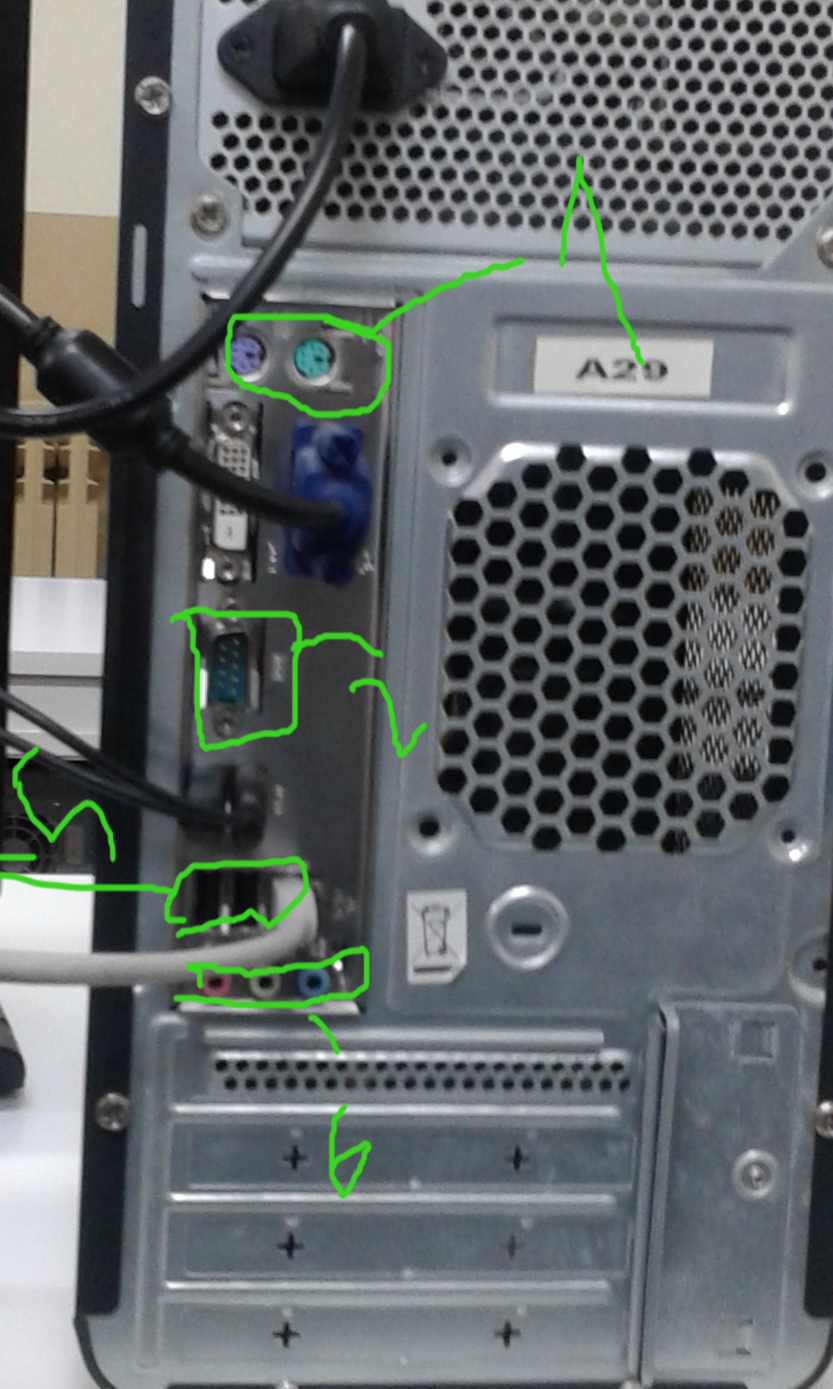
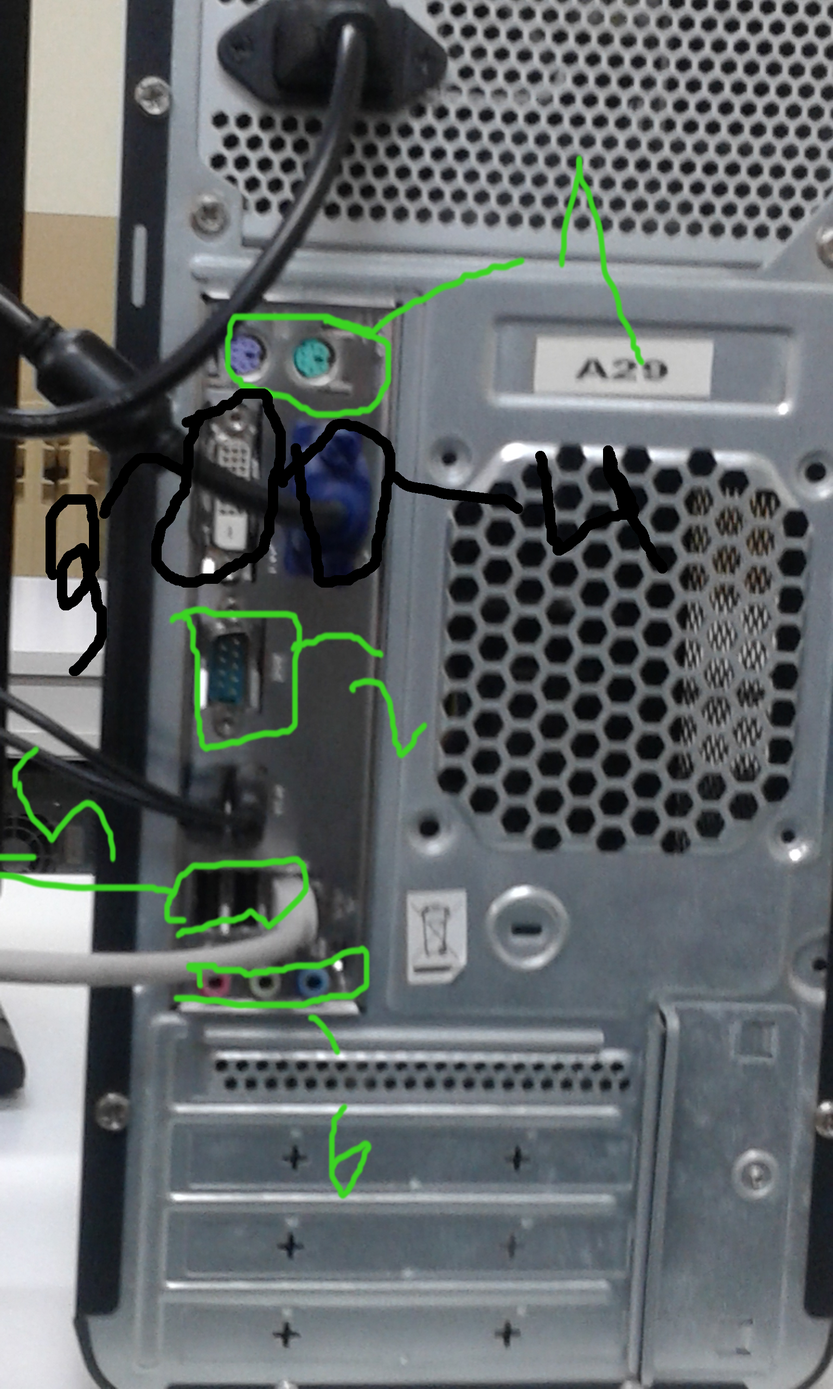
totalment acabat

Changed region(s): [[0.1562, 0.2812, 0.7188, 0.4375], [0.0312, 0.3438, 0.1562, 0.5], [0.7188, 0.3125, 0.7812, 0.4062]]

diff --git a/Connectors Ordinador/connectors imatge png.md b/Connectors Ordinador/connectors imatge png.md
@@ -1,0 +1,10 @@
+#CONNECTORS
+___FRANK RODRIGUEZ___  
+
+>  
+1. Port del ratoli i el teclat
+2. Port serie
+3. Connector DVI
+4. Connector VGA
+5. Ports USB
+6. Connectors microfon i xarxa
